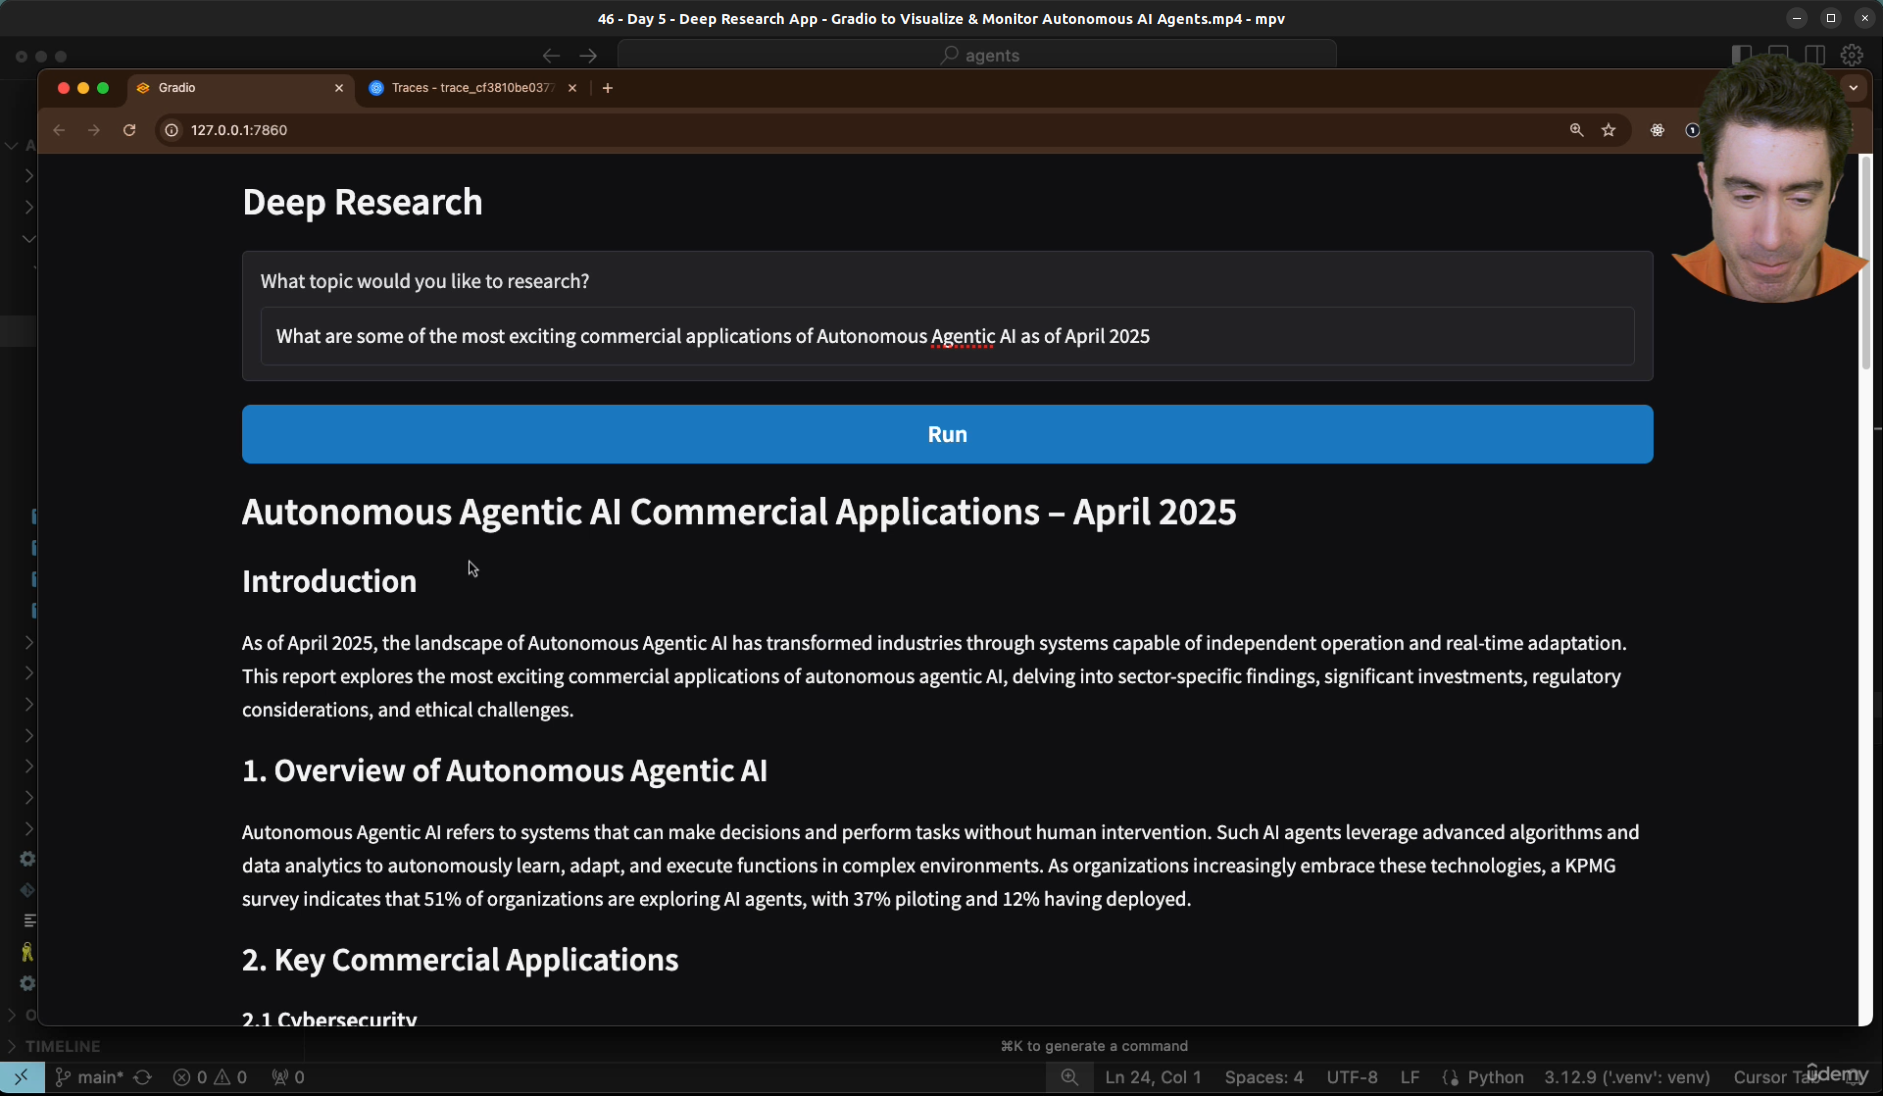
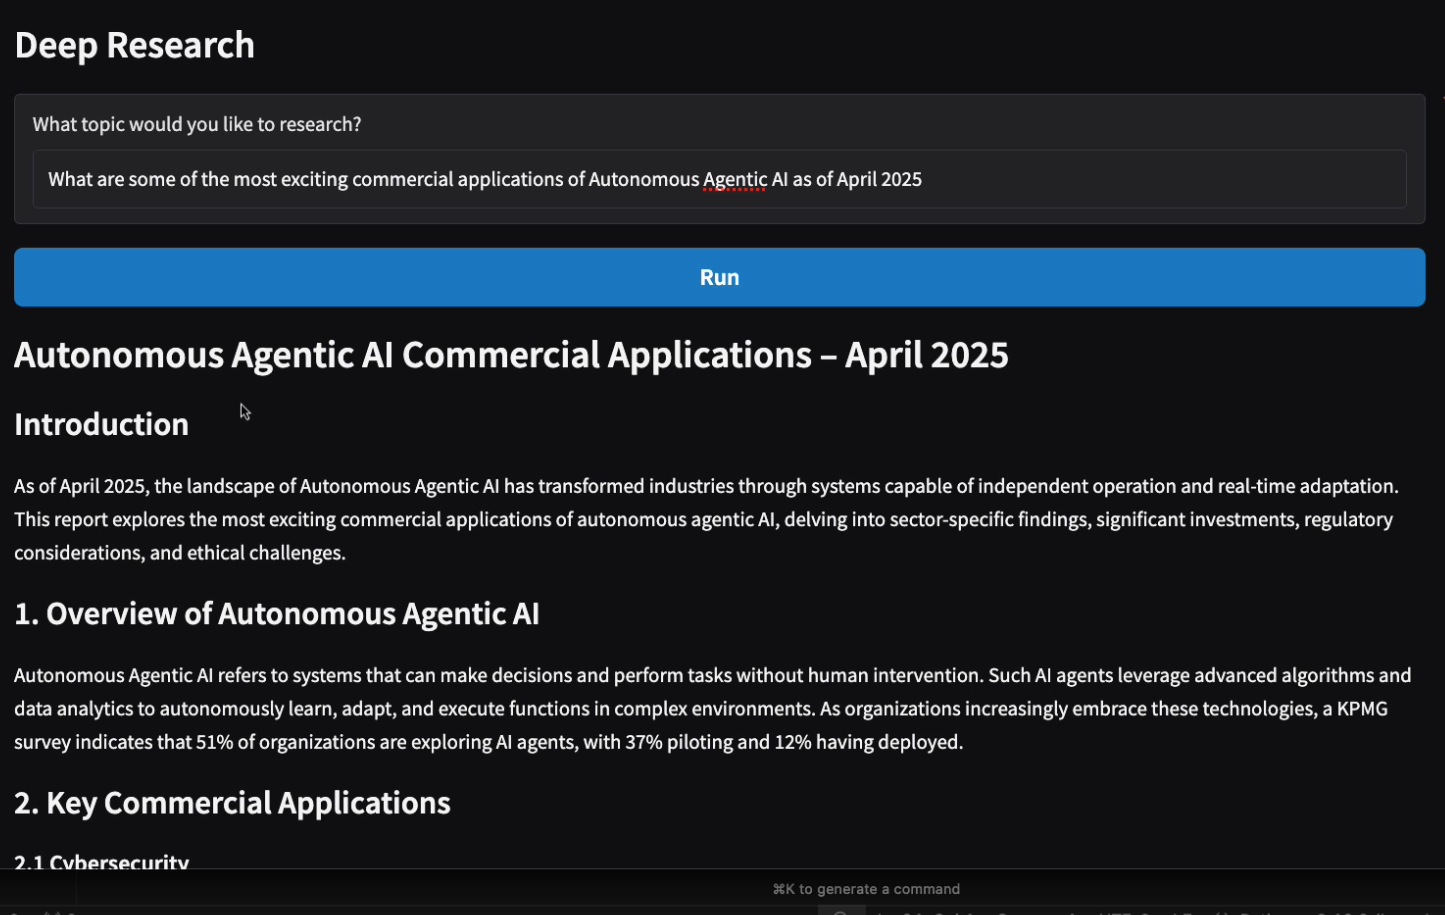
Understand CrewAI Concepts

diff --git a/03. crew/debate/src/debate/crew.py b/03. crew/debate/src/debate/crew.py
@@ -6,7 +6,6 @@ from crewai.project import CrewBase, agent, crew, task
 class Debate():
     """Debate crew"""
 
-
     agents_config = 'config/agents.yaml'
     tasks_config = 'config/tasks.yaml'
 
@@ -41,7 +40,6 @@ class Debate():
         return Task(
             config=self.tasks_config['decide'],
         )
-
 
     @crew
     def crew(self) -> Crew:

diff --git a/Readme.md b/Readme.md
@@ -14,6 +14,58 @@ https://github.com/marketplace/models
 
 <br/>
 
+# 6-Week AI Agent Learning Roadmap
+
+### Week 1: Foundations
+
+- **Make an Agentic Workflow**: Learn the core mechanics of agent execution loops.
+- **Agents and Agentic Patterns**: Explore common design patterns like reflection and planning.
+- **Orchestrating LLMs**: Understand how to prompt, steer, and manage large language models.
+- **Autonomy and Tools**: Learn how agents autonomously select and execute external functions.
+- **Project 1**: Build your personal career agent.
+
+### Week 2: OpenAI Agents SDK
+
+- **Understand OpenAI Agents SDK concepts**: Master the fundamentals of the OpenAI Agents SDK framework.
+- **Project 2: an SDR**: Develop an SDR (Sales Development Representative) agent.
+- **Tools vs Agents Guardrails**: Implement safety measures and execution limits for autonomous agents.
+- **Project 3: Deep Research**: Create a Deep Research agent.
+- **Project 3: Deep Research app**: Deploy the Deep Research agent into a functional application.
+
+### Week 3: CrewAI
+
+- **Understand CrewAI Concepts**: Learn how multi-agent role-playing frameworks operate.
+- **Build a Crew Agent**: Create individual specialized agents with distinct roles and goals.
+- **Project 4: Stock Picker**: Build a Stock Picker multi-agent system.
+- **Project 5: Developer Agent**: Build a Developer Agent to automate coding tasks.
+- **Project 5: Engineering Team**: Scale your developer agents into a collaborative Engineering Team.
+
+### Week 4: LangGraph
+
+- **Understand LangGraph concepts**: Master cyclical graphs and state management for complex workflows.
+- **Build a LangGraph Agent**: Implement stateful multi-agent architectures using nodes and edges.
+- **Tools, memory, web searches**: Add persistent memory and real-time search capabilities to graphs.
+- **Project 6: Sidekick**: Develop a Sidekick agent assistant.
+- **Project 6: Sidekick improvements**: Optimize and refine the Sidekick agent's graph topology.
+
+### Week 5: AutoGen
+
+- **Understand AutoGen concepts**: Explore event-driven multi-agent conversation frameworks.
+- **AutoGen Agent Chat**: Build conversational patterns between multiple autonomous agents.
+- **AutoGen Core**: Learn the foundational messaging and event routing layers of the framework.
+- **AutoGen Core - distributed**: Scale agents across distributed environments and networks.
+- **Project 7: Agent Creator**: Build an Agent Creator that dynamically spawns other agents.
+
+### Week 6: MCP (Model Context Protocol)
+
+- **Agentic Architecture and MCP**: Understand the protocol standard for connecting agents to data sources.
+- **Building an MCP Server and Client**: Create custom data connectors and client-side integrations.
+- **Multiple Local and Remote MCP servers**: Orchestrate complex systems utilizing various distributed data layers.
+- **Project 8: AI Equity Traders**: Develop AI Equity Traders leveraging real-time protocol data.
+- **Project 8: AI Equity Traders In Action**: Deploy and monitor the AI Equity Traders in a live simulated environment.
+
+<br/>
+
 ## Setup instructions for Linux
 
 <br/>

diff --git a/03. crew/Readme.md b/03. crew/Readme.md
@@ -1,0 +1,44 @@
+# Week 3: Crew AI Framework
+
+<br/>
+
+## Day 1 **Understand CrewAI Concepts**: Learn how multi-agent role-playing frameworks operate.
+
+<br/>
+
+![Crew AI Framework](../img/week03-day01-pic01.png)
+
+<br/>
+
+![Crew AI Framework](../img/week03-day01-pic02.png)
+
+<br/>
+
+![Crew AI Framework](../img/week03-day01-pic03.png)
+
+<br/>
+
+![Crew AI Framework](../img/week03-day01-pic04.png)
+
+<br/>
+
+![Crew AI Framework](../img/week03-day01-pic05.png)
+
+<br/>
+
+![Crew AI Framework](../img/week03-day01-pic06.png)
+
+<br/>
+
+```bash
+$ crewai create crew debate
+1 openai
+3 gtp-4o-mini
+```
+
+<br/>
+
+```bash
+$ cd debate
+$ creaai run
+```
